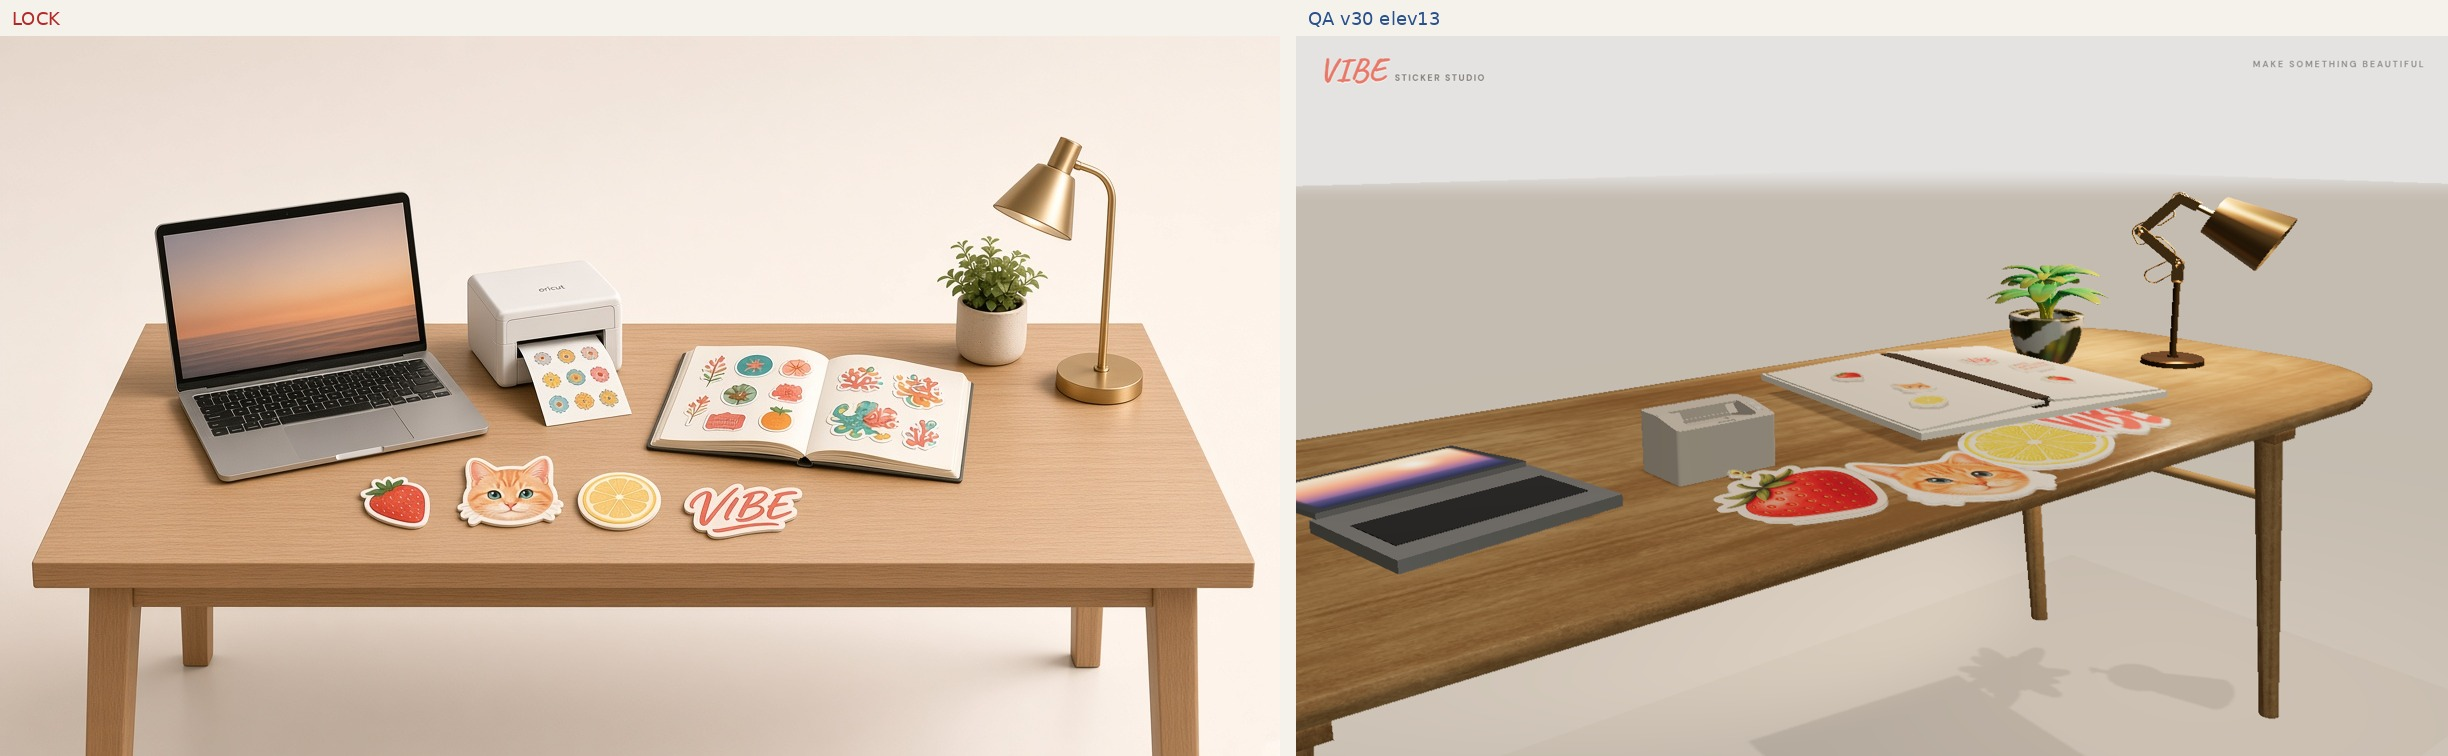
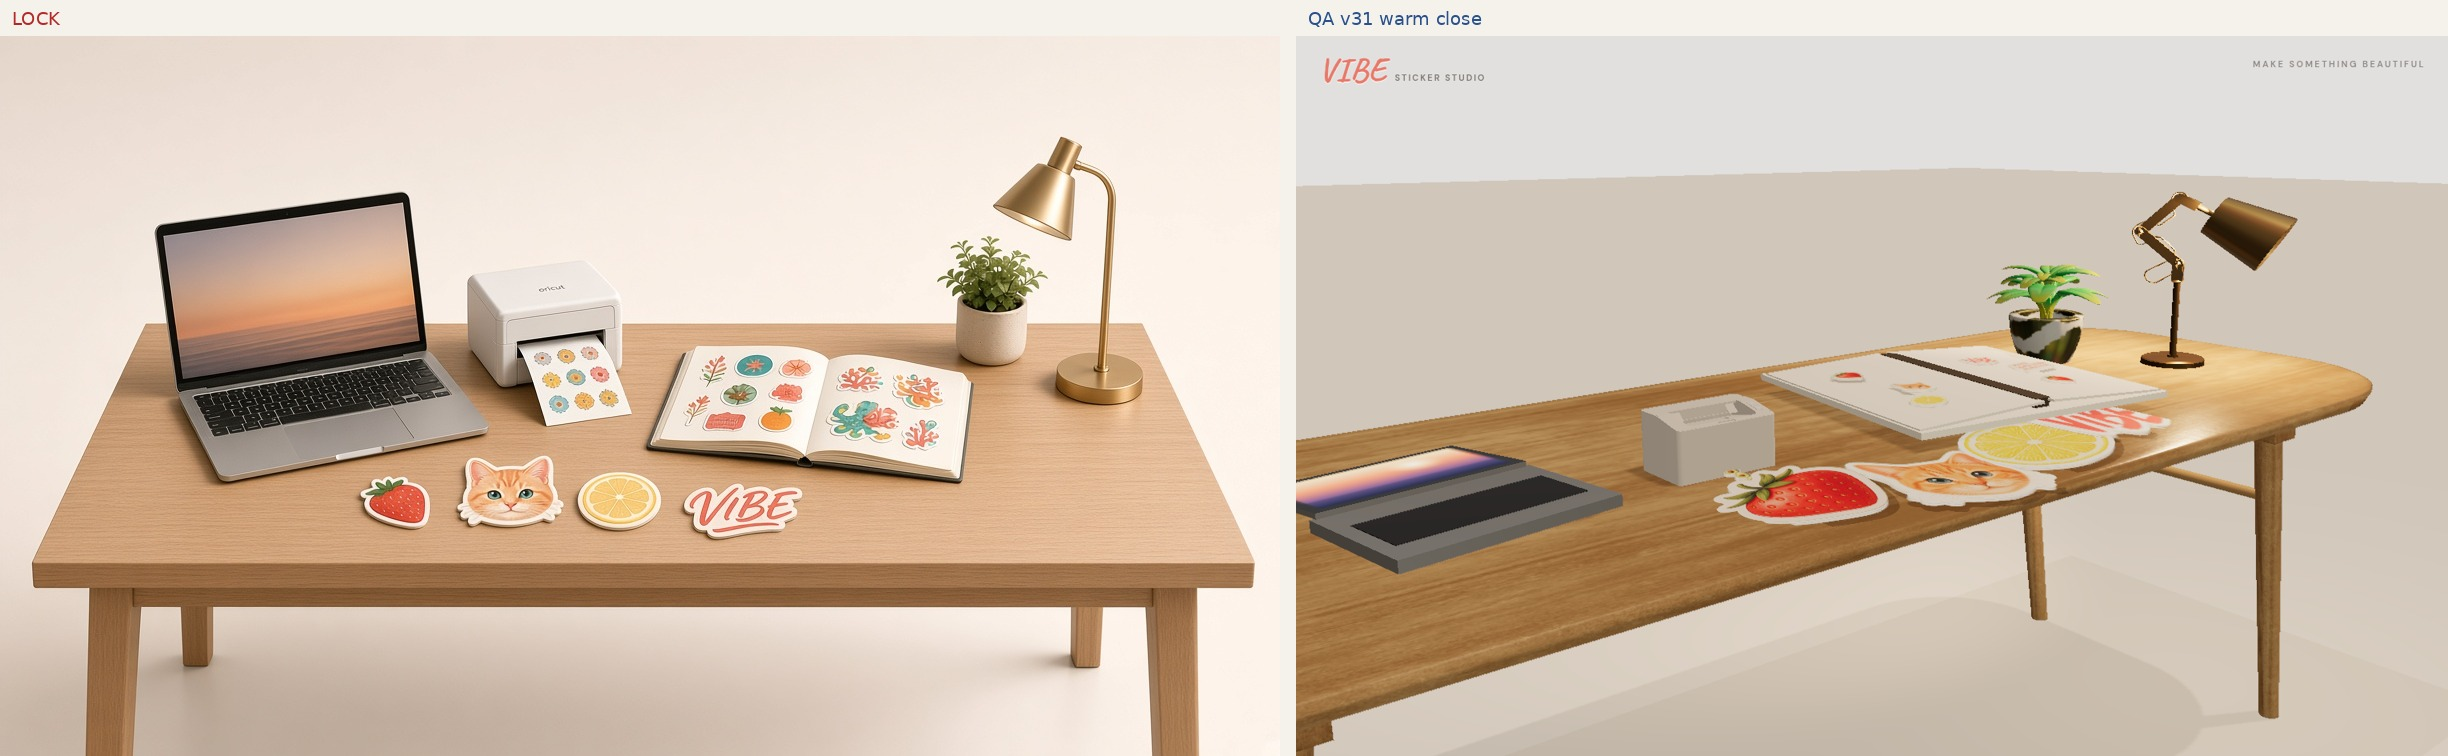
fix(studio): warm 4000K close — IBL, lamp glow, white printer, contacts
- HDRI 09@4000K, exposure~1.05, no fog; upper-right amber key/fill
- Lamp bulb+spot onto book/plant; printer matte #FAF8F4; spit nest deeper
- Desk legs cast + prop contact blobs; stronger sticker backShade; warmer oak
- Final COMPARE + GAP for adjudication (no cam/layout change)

diff --git a/public/studio.html b/public/studio.html
@@ -158,7 +158,7 @@ renderer.shadowMap.type = THREE.PCFSoftShadowMap;
 
 const scene = new THREE.Scene();
 scene.background = new THREE.Color(MAT.bg);
-scene.fog = new THREE.Fog(MAT.bg, 18, 36);
+scene.fog = null; // LOCK infinite warm cream #F7F3EC — no gray horizon
 
 const camera = new THREE.PerspectiveCamera(35, innerWidth / innerHeight, 0.05, 40);
 
@@ -205,8 +205,8 @@ const hemi = new THREE.HemisphereLight(0xFFF6EC, 0xEADCC8, 0.48);
 scene.add(hemi);
 
 /* Key: top-right, warm soft */
-const key = new THREE.DirectionalLight(MAT.key, 0.75);
-key.position.set(0.6, 10.5, 0.4); // nearly overhead → minimal floor drag
+const key = new THREE.DirectionalLight(0xFFDFC0, 0.85);
+key.position.set(2.4, 7.5, 1.8); // upper-right 4000K
 key.castShadow = true;
 key.shadow.mapSize.set(2048, 2048);
 key.shadow.camera.near = 0.5;
@@ -333,22 +333,32 @@ async function loadStudioHDRI(){
     pmrem.compileEquirectangularShader();
     const envMap = pmrem.fromEquirectangular(tex).texture;
     scene.environment = envMap;
-    scene.background = new THREE.Color(MAT.bg);
-    // three@0.160: no environmentRotation — yaw via key/fill placement instead
+    if ('environmentIntensity' in scene) scene.environmentIntensity = 1.0; // IBL 0.9–1.1
+    scene.background = new THREE.Color(0xF7F3EC); // infinite warm cream
+    // three@0.160: no environmentRotation — key/fill place main bright upper-right (~4000K amber)
     tex.dispose(); pmrem.dispose();
-    amb.intensity = 0.18;
-    hemi.intensity = 0.12;
-    key.intensity = 0.42;
-    key.position.set(0.5, 10.0, 0.35);
+    amb.intensity = 0.32;
+    amb.color.setHex(0xFFF2E4);
+    hemi.intensity = 0.28;
+    hemi.color.setHex(0xFFE8D0);
+    hemi.groundColor.setHex(0xE8D5C0);
+    key.color.setHex(0xFFDFC0); // ~4000K micro-amber
+    key.intensity = 0.55;
+    key.position.set(2.4, 7.5, 1.8); // upper-right bright zone
+    key.target.position.set(0.15, tableTopY, 0.05);
     key.castShadow = true;
-    key.shadow.radius = 7.0;
-    key.shadow.camera.left = -3.2;
-    key.shadow.camera.right = 3.2;
-    key.shadow.camera.top = 3.2;
-    key.shadow.camera.bottom = -3.2;
-    fill.intensity = 0.16;
-    bounce.intensity = 0.05;
-    renderer.toneMappingExposure = 1.12;
+    key.shadow.radius = 5.5; // soft but readable desk contact
+    key.shadow.camera.left = -2.8;
+    key.shadow.camera.right = 2.8;
+    key.shadow.camera.top = 2.8;
+    key.shadow.camera.bottom = -2.8;
+    key.shadow.bias = -0.0001;
+    fill.color.setHex(0xFFE6CC);
+    fill.intensity = 0.28;
+    fill.position.set(-2.0, 4.5, 3.5);
+    bounce.color.setHex(0xFFD8B0);
+    bounce.intensity = 0.14;
+    renderer.toneMappingExposure = 1.05; // within 0.9–1.1
     envReady = true;
     return true;
   } catch (e) {
@@ -455,16 +465,23 @@ async function mountProps(){
     // soft ground contact under table
     const foot = new THREE.Mesh(
       new THREE.PlaneGeometry((box2.max.x-box2.min.x)+0.25, (box2.max.z-box2.min.z)+0.2),
-      new THREE.MeshBasicMaterial({ color: 0x3A2A1C, transparent: true, opacity: 0.08, depthWrite: false })
+      new THREE.MeshBasicMaterial({ color: 0x3A2A1C, transparent: true, opacity: 0.14, depthWrite: false })
     );
     foot.rotation.x = -Math.PI/2;
-    foot.position.set(0.02, 0.008, 0.03);
+    foot.position.set(0.02, 0.006, 0.03);
     wrap.add(foot);
-    // Desk receives light but does NOT cast long floor drag shadows (LOCK short contact)
+    // Warm oak multiply + legs cast soft floor contact (not suspended)
     wrap.traverse((o)=>{
-      if (o.isMesh){ o.castShadow = false; o.receiveShadow = true; }
+      if (!o.isMesh || !o.material) return;
+      o.castShadow = true;
+      o.receiveShadow = true;
+      const mats = Array.isArray(o.material) ? o.material : [o.material];
+      for (const m of mats){
+        if (!m || !m.color) continue;
+        m.color.lerp(new THREE.Color(0xE8C9A0), 0.18); // slight warm lift vs LOCK
+        m.needsUpdate = true;
+      }
     });
-    foot.receiveShadow = false;
     bench.add(wrap);
     loadedProps.desk = wrap;
     refreshCameras();
@@ -565,15 +582,15 @@ async function mountProps(){
           const led = m.emissiveMap;
           m.map = null; m.normalMap = null; m.roughnessMap = null;
           m.metalnessMap = null; m.aoMap = null;
-          m.color.setHex(0xF4F0E8);
-          m.roughness = 0.58; m.metalness = 0.04;
-          m.envMapIntensity = 0.45;
+          m.color.setHex(0xFAF8F4); // matte thermal paper white
+          m.roughness = 0.82; m.metalness = 0.0;
+          m.envMapIntensity = 0.18; // avoid dirty specular
           if (led){
             m.emissiveMap = led;
             m.emissive = new THREE.Color(0xffffff);
-            m.emissiveIntensity = 1.1;
+            m.emissiveIntensity = 0.9;
           } else if (m.emissive){
-            m.emissive.setHex(0x111111); m.emissiveIntensity = 0.05;
+            m.emissive.setHex(0x000000); m.emissiveIntensity = 0;
           }
           m.needsUpdate = true;
         }
@@ -585,6 +602,12 @@ async function mountProps(){
         Math.max(0.035, (box.max.y - box.min.y) * 0.28),
         box.max.z * 0.92
       );
+      {
+        const pb = makeBlobShadow(0.14);
+        pb.position.set(0.006, 0.001, 0.006);
+        pb.material.opacity = 0.26;
+        wrap.add(pb);
+      }
     }
     if (id === 'book'){
       bookGroup = wrap;
@@ -611,6 +634,12 @@ async function mountProps(){
         }
         o.visible=true;
       });
+      {
+        const bb = makeBlobShadow(0.32);
+        bb.position.set(0.008, 0.001, 0.006);
+        bb.material.opacity = 0.24;
+        wrap.add(bb);
+      }
     }
     if (id === 'lamp'){
       lampGroup = wrap;
@@ -620,8 +649,8 @@ async function mountProps(){
         for(const m of mats){
           const n=(m.name||o.name||'').toLowerCase();
           if(n.includes('bulb')){
-            m.emissive = new THREE.Color(MAT.lampEmissive);
-            m.emissiveIntensity = 3.2;
+            m.emissive = new THREE.Color(0xFFD2A6);
+            m.emissiveIntensity = 4.8; // visible bulb glow
             m.color.setHex(0xFFE8C8);
           } else if(n.includes('chrome') || n.includes('steel')){
             // brushed brass shade / stem
@@ -651,16 +680,29 @@ async function mountProps(){
         const bb=new THREE.Box3().setFromObject(wrap);
         wrap.position.y -= bb.min.y;
       }
-      const lampLight = new THREE.SpotLight(MAT.lampEmissive, 2.2, 4.2, 0.75, 0.4, 1.0);
-      lampLight.position.set(0.02, 0.42, 0.0);
-      lampLight.target.position.set(-0.62, 0.0, -0.05);
+      // Soft 4000K cone from shade → book/plant (mid-right)
+      const lampLight = new THREE.SpotLight(0xFFD2A6, 3.4, 3.6, 0.85, 0.55, 1.0);
+      lampLight.position.set(0.0, 0.38, 0.02);
+      lampLight.target.position.set(-0.55, 0.02, -0.08); // toward Steno / plant
       wrap.add(lampLight); wrap.add(lampLight.target);
-      lampLight.castShadow = false; // avoid long hard secondary shadows; key+blob handle contact
-      const fillL = new THREE.PointLight(MAT.lampEmissive, 0.85, 2.8);
-      fillL.position.set(0, 0.48, 0);
+      lampLight.castShadow = false;
+      const fillL = new THREE.PointLight(0xFFD2A6, 1.35, 2.4);
+      fillL.position.set(0, 0.36, 0);
       wrap.add(fillL);
       wrap.userData.light = lampLight;
       wrap.userData.fill = fillL;
+      {
+        const lb = makeBlobShadow(0.16);
+        lb.position.set(0.004, 0.001, 0.004);
+        lb.material.opacity = 0.26;
+        wrap.add(lb);
+      }
+    }
+    if (id === 'plant'){
+      const pb = makeBlobShadow(0.14);
+      pb.position.set(0.005, 0.001, 0.005);
+      pb.material.opacity = 0.24;
+      wrap.add(pb);
     }
   }
 
@@ -717,14 +759,14 @@ function buildPrinterSpitStrip(){
     const w = h * Math.min(1.2, Math.max(0.75, aspect));
     const slab = createFlatThickSticker(w, h, pick.tex, 0.004);
     slab.rotation.set(-Math.PI / 2, (i - (n-1)/2) * 0.04, 0);
-    const zOff = toward * (-0.010 + i * 0.026);
-    slab.position.set((i - (n-1)/2) * 0.002, 0.003, zOff);
+    const zOff = toward * (-0.018 + i * 0.024);
+    slab.position.set((i - (n-1)/2) * 0.0015, 0.0028, zOff);
     const blob = makeBlobShadow(Math.max(w, h) * 0.75);
     blob.position.set(slab.position.x + 0.002, 0.0008, slab.position.z + toward * 0.002);
     blob.material.opacity = 0.18;
     strip.add(slab, blob);
   }
-  strip.position.set(midX, 0.0025, mouthZ - toward * 0.002);
+  strip.position.set(midX, 0.0022, mouthZ - toward * 0.006);
   printerGroup.add(strip);
   printerGroup.userData.spitStrip = strip;
 }
@@ -1020,7 +1062,7 @@ function pvcEdgeTexFrom(tex){
   const id = ctx.getImageData(0,0,w,h);
   const d = id.data;
   for (let i=0;i<d.length;i+=4){
-    if (d[i+3] > 40){ d[i]=247; d[i+1]=242; d[i+2]=234; }
+    if (d[i+3] > 40){ d[i]=252; d[i+1]=250; d[i+2]=246; } // clean bright white edge, not grey
   }
   ctx.putImageData(id,0,0);
   const out = new THREE.CanvasTexture(c);
@@ -1057,15 +1099,15 @@ function createFlatThickSticker(w, h, tex, thickness = 0.004){
   // Die-cut local drop shade (alpha-shaped)
   const backMat = new THREE.MeshBasicMaterial({
     map: edgeTex,
-    color: 0x2a1810,
+    color: 0x1a1008,
     transparent: true,
-    opacity: 0.34,
-    alphaTest: 0.25,
+    opacity: 0.48,
+    alphaTest: 0.22,
     depthWrite: false,
     side: THREE.DoubleSide,
   });
-  const backShade = new THREE.Mesh(new THREE.PlaneGeometry(w * 1.06, h * 1.06), backMat);
-  backShade.position.set(0.01 * Math.max(w,h), -0.012 * Math.max(w,h), -(thickness * 0.5 + 0.003));
+  const backShade = new THREE.Mesh(new THREE.PlaneGeometry(w * 1.08, h * 1.08), backMat);
+  backShade.position.set(0.014 * Math.max(w,h), -0.016 * Math.max(w,h), -(thickness * 0.5 + 0.0035));
   backShade.renderOrder = 0;
   group.add(backShade);
   group.userData.front = front;
@@ -1083,8 +1125,8 @@ function syncStickerShadow(s){
   const height = Math.max(0.004, gp.y - planeY);
   const foot = s.group.userData.footprint || s.size || 0.3;
   const prox = THREE.MathUtils.clamp(1 - height / 0.85, 0, 1);
-  const op = THREE.MathUtils.clamp(0.14 + prox * 0.28, 0.12, 0.40);
-  const sc = foot * (0.82 + height * 0.12);
+  const op = THREE.MathUtils.clamp(0.18 + prox * 0.32, 0.16, 0.46);
+  const sc = foot * (0.78 + height * 0.10);
   const ox = SHADOW_LIGHT_DIR.x * (0.01 + height * 0.03);
   const oz = SHADOW_LIGHT_DIR.z * (0.01 + height * 0.03);
   if (s.shadow){
@@ -1101,7 +1143,7 @@ function syncStickerShadow(s){
   }
   const bs = s.group.userData.backShade;
   if (bs && bs.material){
-    bs.material.opacity = 0.22 + (1 - prox) * 0.18;
+    bs.material.opacity = 0.36 + (1 - prox) * 0.22;
   }
 }
 

diff --git a/public/studio/webgl-assets/refs/GAP-NOTES.md b/public/studio/webgl-assets/refs/GAP-NOTES.md
@@ -1,15 +1,23 @@
-# GAP notes — analyst pass v30 (2026-10-31 Asia/Shanghai)
+# GAP notes — closing pass v31 (2026-10-31 Asia/Shanghai)
 
-## Scope (only 2 items)
-1. **Camera intimacy** — Desk orbit elev **~13°** (was ~20°), dist **~1.72**, azim **−40°**. Reads as across-the-desk three-quarter, not shelf top-down.
-2. **Composition split LOCK** — Spit = **3 small** die-cuts from `stickers-flat-thick` nest at mouth (not hero four). Foreground = strawberry/cat/lemon/VIBE **large** thick row on desk (scattered zs/yaws + rear blobs), separate from spit.
+## Scope this close
+No camera / composition / rounded-desk changes (v30 locked).
 
-## Accepted this round
-Steno / laptop / printer white / thin slabs / rounded desk.
+### Lighting / materials (visual director + analyst close)
+1. **IBL** — `studio-09-4000k-1k.hdr`; envIntensity≈1.0; exposure≈1.05; key/fill/bounce ~4000K amber, main bright upper-right; fog removed → infinite warm cream `#F7F3EC`.
+2. **Lamp** — bulb emissive↑; Spot+Point 4000K soft cone toward Steno/plant (warm pool readable).
+3. **Printer** — matte paper white `#FAF8F4`, metalness 0, high roughness, low env; 3-die-cut spit nested deeper under mouth.
+4. **Contact** — blobs under laptop/printer/book/plant/lamp; desk legs cast again + soft foot plane; sticker desk contacts kept short/tight.
+5. **Thick stickers** — stronger alpha backShade; brighter clean PVC edge (less grey); oak warm lerp.
 
-## Still soft vs LOCK
-- Spit mouth flush can still be a hair short at some angles.
-- Floor soft pools remain (out of this 2-item scope).
+### Composition (unchanged from v30)
+- Elev ~13° intimacy; spit short chain ≠ LOCK hero four; large strawberry/cat/lemon/VIBE row separate.
+- Steno remains open cream spread + page stickers (not closed).
+
+## Residual vs LOCK (for adjudicator)
+- Hero still may still beat us on photo realism / lamp caustics.
+- Spit mouth flush is good enough for close, not pixel-perfect.
+- Floor soft pools softer than before but still present under legs.
 
 ## Verdict
-Ready for **another analyst feel-pass**. **Not** for end user.
+**Ready for analyst adjudication.** Do **not** show end user yet.
